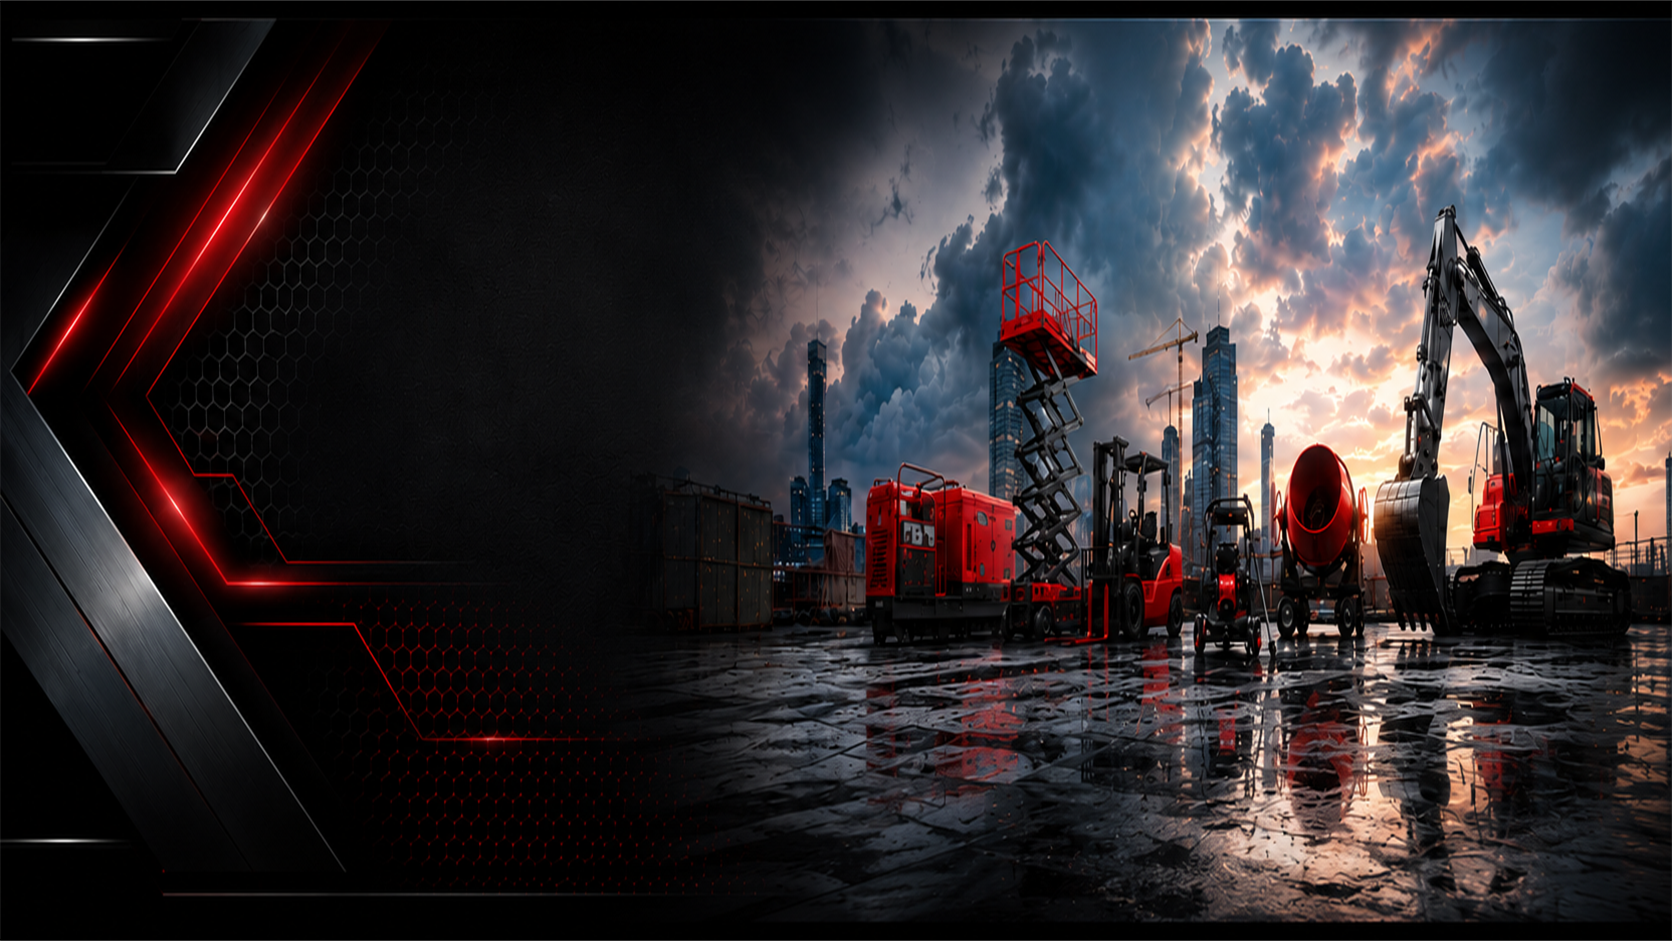
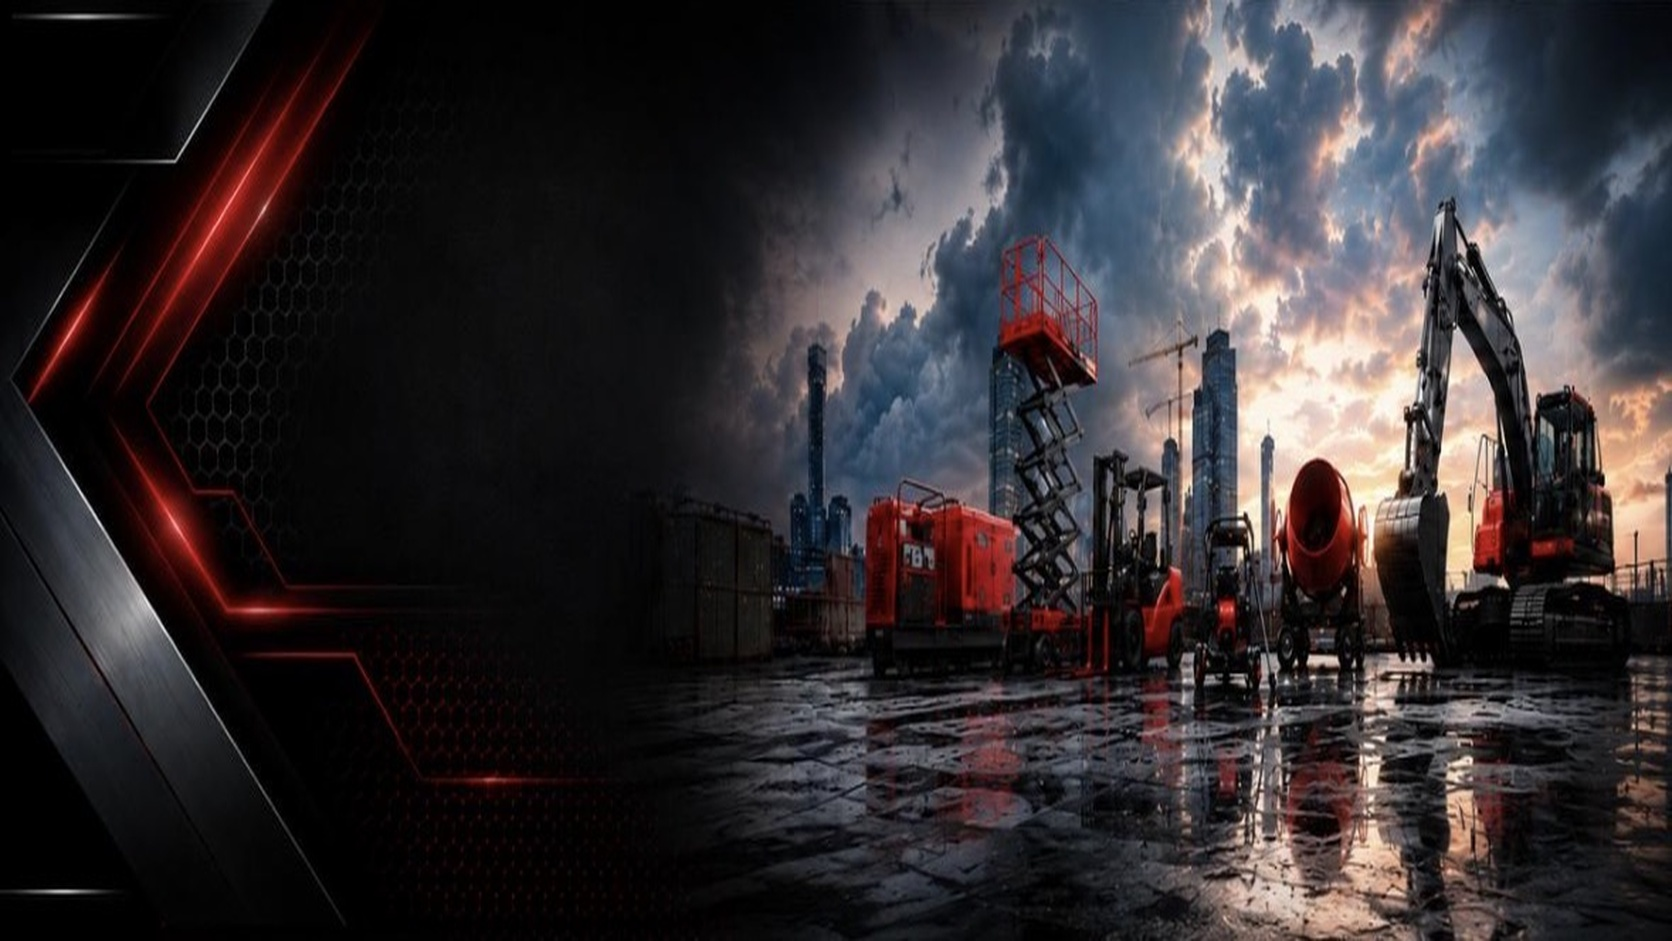
mapa, formulario respo

diff --git a/frontend/indesa-web/src/pages/public/Home.tsx b/frontend/indesa-web/src/pages/public/Home.tsx
@@ -56,7 +56,7 @@ type ReservaFormState = {
   notas: string;
 };
 
-const whatsappPhone = "50222223333";
+const whatsappPhone = "50252149029";
 const todayDate = getTodayDate();
 
 const emptyReservaForm: ReservaFormState = {
@@ -187,6 +187,21 @@ export function Home() {
     return () => window.clearInterval(timer);
   }, []);
 
+  useEffect(() => {
+    if (typeof window === "undefined") return;
+
+    const sources = [
+      ...heroSlides.map((slide) => slide.image),
+      ...productosCatalogo.slice(0, 6).map((producto) => producto.imagen_url).filter(Boolean) as string[],
+    ];
+
+    sources.forEach((src) => {
+      const image = new window.Image();
+      image.decoding = "async";
+      image.src = src;
+    });
+  }, [productosCatalogo]);
+
   const openReservaModal = (producto: HomeProduct) => {
     const tarifaPrincipal = getTarifaPrincipal(producto);
     setSelectedProduct(producto);
@@ -273,14 +288,17 @@ export function Home() {
       <section className="relative flex min-h-[330px] items-center overflow-hidden bg-zinc-950 py-8 text-white md:min-h-[390px] md:py-10 lg:min-h-[420px]">
         <div className="absolute inset-0">
           {heroSlides.map((slide, index) => (
-            <img
-              key={slide.label}
-              src={slide.image}
-              alt={slide.label}
-              className={`absolute inset-0 h-full w-full object-cover transition-all duration-1000 ease-out ${
-                activeSlide === index ? "scale-100 opacity-80" : "scale-105 opacity-0"
-              }`}
-            />
+              <img
+                key={slide.label}
+                src={slide.image}
+                alt={slide.label}
+                loading={index === activeSlide ? "eager" : "eager"}
+                fetchPriority={index === activeSlide ? "high" : "low"}
+                decoding="async"
+                className={`absolute inset-0 h-full w-full object-cover transition-all duration-1000 ease-out ${
+                  activeSlide === index ? "scale-100 opacity-80" : "scale-105 opacity-0"
+                }`}
+              />
           ))}
         </div>
         <div className="absolute inset-0 bg-gradient-to-r from-zinc-950 via-zinc-950/50 to-zinc-950/10" />
@@ -358,7 +376,7 @@ export function Home() {
             </div>
           ) : (
             <div className="grid grid-cols-1 gap-6 sm:grid-cols-2 xl:grid-cols-3">
-              {productosCatalogo.map((producto) => {
+              {productosCatalogo.map((producto, index) => {
               const agotado = (producto.cantidad ?? 0) <= 0;
               const tarifasDisponibles = getTarifasProducto(producto);
               const tarifa = getTarifaPrincipal(producto);
@@ -373,6 +391,9 @@ export function Home() {
                       <img
                         src={producto.imagen_url}
                         alt={producto.nombre}
+                        loading="eager"
+                        fetchPriority={index < 3 ? "high" : "low"}
+                        decoding="async"
                         className="h-full w-full bg-white object-contain p-4 transition-transform duration-700 group-hover:scale-105"
                       />
                     ) : (

diff --git a/frontend/indesa-web/src/pages/public/Contacto.tsx b/frontend/indesa-web/src/pages/public/Contacto.tsx
@@ -2,6 +2,9 @@ import { Card, CardContent } from "@/components/ui/card";
 import { MapPin, Phone, Mail, Clock } from "lucide-react";
 
 export function Contacto() {
+  const googleMapsUrl = "https://maps.app.goo.gl/thbNvAJQZdETskmB7?g_st=ic";
+  const embeddedMapUrl = "https://www.google.com/maps?q=29+calle+14-24+zona+13,+Colonia+La+Libertad,+Ciudad+de+Guatemala,+Guatemala&z=16&output=embed";
+
   return (
     <div className="min-h-screen bg-white">
       <div className="bg-[#FF2800] py-16 text-white md:py-24">
@@ -121,11 +124,22 @@ export function Contacto() {
           <div className="mt-10 overflow-hidden rounded-lg border shadow-inner">
             <iframe
               title="Ubicación INDESA"
-              src="https://maps.app.goo.gl/4WmFa7TqaWjcb1K27"
-              className="h-72 w-full"
+              src={embeddedMapUrl}
+              className="h-[340px] w-full border-0 md:h-[420px]"
               loading="lazy"
               referrerPolicy="no-referrer-when-downgrade"
             />
+          </div>
+
+          <div className="mt-4 flex justify-end">
+            <a
+              href={googleMapsUrl}
+              target="_blank"
+              rel="noreferrer"
+              className="rounded-md bg-primary px-4 py-2 text-sm font-semibold text-white transition-colors hover:bg-primary/90"
+            >
+              Abrir en Google Maps
+            </a>
           </div>
         </section>
       </div>

diff --git a/frontend/indesa-web/src/components/layout/PublicLayout.tsx b/frontend/indesa-web/src/components/layout/PublicLayout.tsx
@@ -370,8 +370,8 @@ export function PublicLayout({ children }: { children: React.ReactNode }) {
               WhatsApp
             </a>
             <a
-              href="tel:[phone redacted]"
-              className="flex items-center gap-3 rounded-md px-3 py-3 text-sm font-semibold transition-colors hover:bg-primary/5 hover:text-primary"
+              href="tel:[phone redacted]"
+              className="flex items-center gap-3 rounded-md px-3 py-3 text-sm font-semibold transition-colors hover:bg-primary/5 hover:text-primary touch-manipulation"
               onClick={() => setIsSocialMenuOpen(false)}
             >
               <Phone className="h-4 w-4 text-primary" />
@@ -379,7 +379,7 @@ export function PublicLayout({ children }: { children: React.ReactNode }) {
             </a>
             <a
               href="mailto:[email redacted]"
-              className="flex items-center gap-3 rounded-md px-3 py-3 text-sm font-semibold transition-colors hover:bg-primary/5 hover:text-primary"
+              className="flex items-center gap-3 rounded-md px-3 py-3 text-sm font-semibold transition-colors hover:bg-primary/5 hover:text-primary touch-manipulation"
               onClick={() => setIsSocialMenuOpen(false)}
             >
               <Mail className="h-4 w-4 text-primary" />

diff --git a/frontend/indesa-web/src/pages/admin/Reservas.tsx b/frontend/indesa-web/src/pages/admin/Reservas.tsx
@@ -460,7 +460,7 @@ export function Reservas() {
 
       <Dialog open={isAgregarOpen} onOpenChange={setIsAgregarOpen}>
         <DialogContent
-          className="max-w-3xl"
+          className="w-[calc(100vw-1rem)] max-h-[calc(100dvh-1rem)] max-w-3xl overflow-y-auto overscroll-contain p-4 sm:p-6"
           onInteractOutside={() => {
             if (!createReservaMutation.isPending) {
               setAgregarError("");
@@ -640,7 +640,7 @@ export function Reservas() {
             <div>Días aproximados: <span className="font-semibold text-foreground">{diasAgregar}</span></div>
           </div>
 
-          <DialogFooter>
+          <DialogFooter className="flex-col-reverse gap-2 sm:flex-row sm:justify-end">
             <Button
               variant="outline"
               type="button"
@@ -656,7 +656,7 @@ export function Reservas() {
               type="button"
               onClick={handleGuardarReservaManual}
               disabled={createReservaMutation.isPending}
-              className="gap-2"
+              className="gap-2 w-full sm:w-auto"
             >
               {createReservaMutation.isPending ? "Guardando..." : "Guardar reserva"}
             </Button>

diff --git a/frontend/indesa-web/src/pages/public/Catalogo.tsx b/frontend/indesa-web/src/pages/public/Catalogo.tsx
@@ -61,7 +61,8 @@ function CatalogImage({ src, name, index }: { src?: string | null; name: string;
       <img
         src={src}
         alt={name}
-        loading={index < 4 ? "eager" : "lazy"}
+        loading={index < 8 ? "eager" : "lazy"}
+        fetchPriority={index < 4 ? "high" : "low"}
         decoding="async"
         sizes="(min-width: 1536px) 25vw, (min-width: 1280px) 33vw, (min-width: 640px) 50vw, 100vw"
         onLoad={() => setImageState("loaded")}